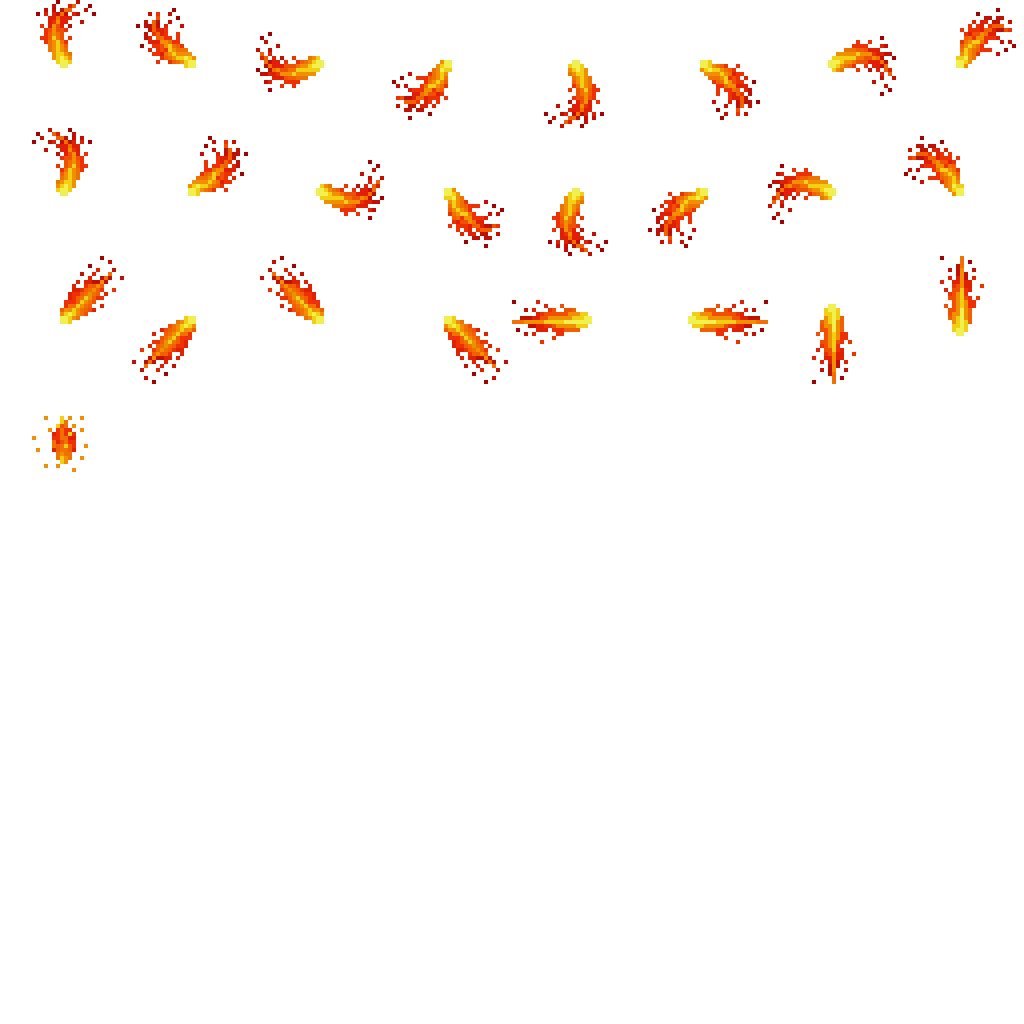
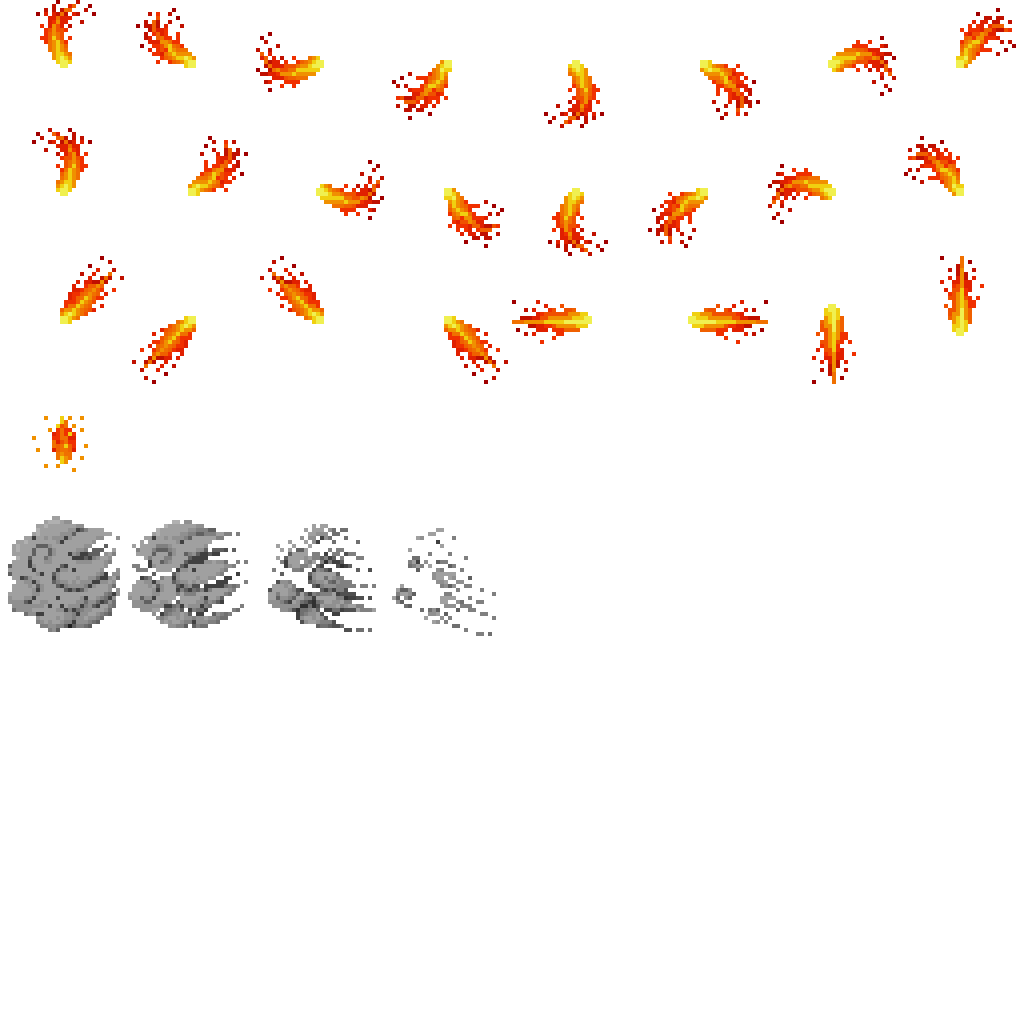
風の妖怪

Changed region(s): [[0.0, 0.5, 0.4688, 0.625]]

diff --git a/Solution/EnemyWindMonster.cpp b/Solution/EnemyWindMonster.cpp
@@ -4,11 +4,31 @@ static const int CHIP_SIZE = 256;
 static const int CHIP_FOOT = 0;
 static const int HP = 4;
 static const int POW = 1;
+static const int WAIT_ANIME_TIME = 3;
+static const int MOVE_SPEED = 10;
 
 EnemyWindMonster::EnemyWindMonster( int x, int y ) :
-Enemy( x, y, CHIP_SIZE, CHIP_FOOT, false, HP, POW ) {
+Enemy( x, y, CHIP_SIZE, CHIP_FOOT, false, HP, POW ),
+_act_count( 0 ) {
 }
 
 
 EnemyWindMonster::~EnemyWindMonster( ) {
+}
+
+void EnemyWindMonster::act( ) {
+	setAccelX( -MOVE_SPEED );
+	const int WIDTH_NUM = 5;
+	const int ANIME[ ] = {	0, 1, 2, 3, 4,
+							3, 2, 1, 0, 1,
+							2, 3, 4, 3, 2,
+							1, 0, 1, 2, 3,
+							4, 5, 6, 7, 8,
+							9, 8, 7, 6, 5,
+							4, 3, 2, 1 };
+	int anime_num = sizeof( ANIME ) / sizeof( ANIME[ 0 ] );
+	int u = ANIME[ _act_count / WAIT_ANIME_TIME % anime_num ] % WIDTH_NUM;
+	int v = ANIME[ _act_count / WAIT_ANIME_TIME % anime_num ] / WIDTH_NUM + 1;
+	setChipGraph( GRAPH_ENEMY_BIG, u, v );
+	_act_count++;
 }

diff --git a/Solution/EnemyManager.cpp b/Solution/EnemyManager.cpp
@@ -43,6 +43,7 @@
 #include "EnemyHellFire.h"
 #include "EnemyRockMassSoul.h"
 #include "EnemyRockMassShell.h"
+#include "EnemyWindMonster.h"
 #include "Map.h"
 #include "Boss.h"
 
@@ -312,7 +313,9 @@ void EnemyManager::createByField( unsigned int enemy_data, CameraConstPtr camera
 		_enemies.push_back( EnemyPtr( new EnemyRockMassSoul( pop_base_x - 50, BASE_POP_Y ) ) );
 		_enemies.push_back( EnemyPtr( new EnemyRockMassShell( pop_base_x, BASE_POP_Y ) ) );
 	}
-	
+	if ( data & WIND_MONSTER ) {
+		_enemies.push_back( EnemyPtr( new EnemyWindMonster( pop_base_x, BASE_POP_Y ) ) );
+	}
 }
 
 EnemyPtr EnemyManager::getOverlappedEnemy( PsychicPtr pcychic ) {

diff --git a/Solution/EnemyWaterMonk.cpp b/Solution/EnemyWaterMonk.cpp
@@ -16,11 +16,10 @@ EnemyWaterMonk::~EnemyWaterMonk( ) {
 }
 
 void EnemyWaterMonk::act( ) {
-	const int MAX_ANIME_PATTERN = 16;
-	const int ANIME[ MAX_ANIME_PATTERN ] = { 0, 1, 2, 3, 4, 5, 4, 5, 4, 5, 4, 3, 2, 1, 0, 0 };
-	_act_count++;
-	_act_count %= WAIT_ANIME_TIME * MAX_ANIME_PATTERN;
-	int u = ANIME[ _act_count / WAIT_ANIME_TIME % MAX_ANIME_PATTERN ];
+	const int ANIME[ ] = { 0, 1, 2, 3, 4, 3, 4, 3, 2, 1, 0, 0 };
+	int anime_num = sizeof( ANIME ) / sizeof( ANIME[ 0 ] );
+	int u = ANIME[ _act_count / WAIT_ANIME_TIME % anime_num ];
 	int v = 4;
 	setChipGraph( GRAPH_ENEMY_BIG, u, v );
+	_act_count++;
 }

diff --git a/Solution/EnemyWindMonster.h b/Solution/EnemyWindMonster.h
@@ -5,5 +5,9 @@ class EnemyWindMonster : public Enemy {
 public:
 	EnemyWindMonster( int x, int y );
 	virtual ~EnemyWindMonster( );
+private:
+	void act( );
+private:
+	int _act_count;
 };
 
